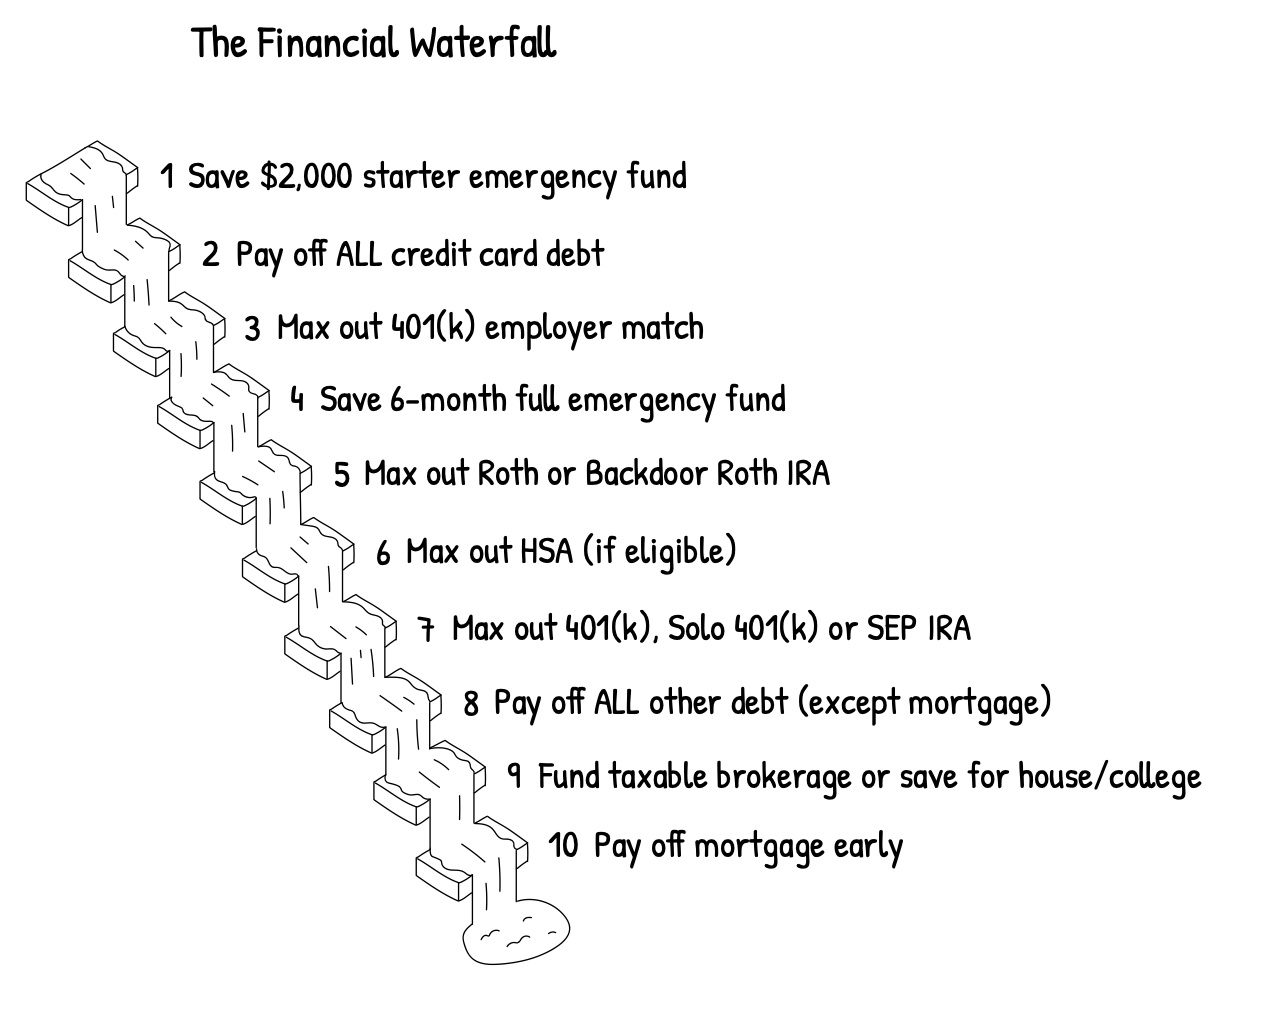
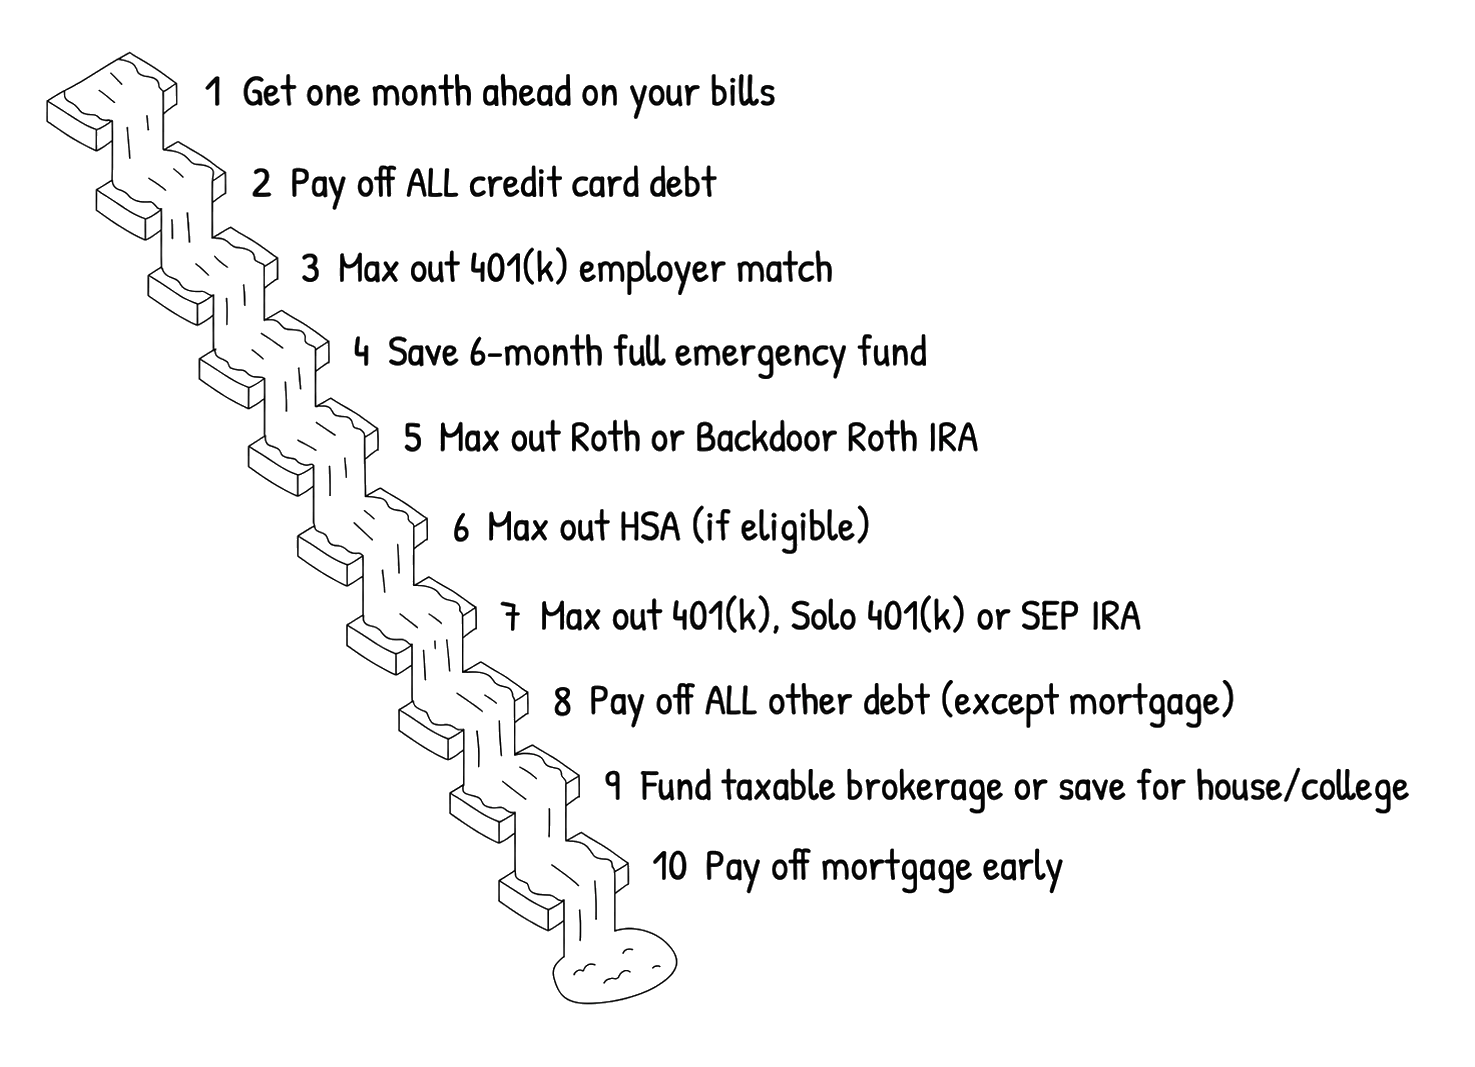
New Waterfall graphic, seamless, tap targets re-measured
Claude-Session: https://claude.ai/code/session_015yEfJTAEgxMHdJavpt4FRa

Changed region(s): [[0.0308, 0.0304, 0.955, 0.9422]]

diff --git a/config.js b/config.js
@@ -34,16 +34,16 @@ window.PLANNER_CONFIG = {
   // Where each step's text sits on waterfall.png, as % of the image (left, top, width,
   // height), so the steps can be tapped right on the graphic. Re-measure if the graphic changes.
   waterfallSpots: [
-    [11.5, 14.2, 45.6, 7.0],
-    [14.7, 21.8, 36.3, 6.9],
-    [18.2, 28.7, 40.9, 7.3],
-    [21.7, 36.1, 41.8, 7.0],
-    [24.9, 43.3, 45.3, 6.8],
-    [28.4, 50.7, 33.3, 7.3],
-    [32.0, 58.2, 48.4, 6.4],
-    [35.5, 65.5, 50.5, 7.3],
-    [38.7, 72.9, 60.3, 7.1],
-    [42.1, 79.8, 33.1, 7.0],
+    [12.8, 5.8, 40.8, 5.2],
+    [16.2, 14.4, 33.6, 5.2],
+    [19.6, 22.4, 38.0, 5.2],
+    [23.0, 30.2, 40.9, 6.5],
+    [26.4, 38.2, 41.1, 5.2],
+    [29.8, 46.3, 30.2, 6.7],
+    [33.2, 54.6, 45.3, 5.9],
+    [36.5, 62.6, 48.2, 6.7],
+    [39.9, 70.9, 56.7, 6.5],
+    [43.3, 78.4, 29.9, 6.5],
   ],
   goalPrompt: "Which step of the Financial Waterfall are you on? Tap it. That's the goal this money goes to.",
   // Printed in the plan's Financial Goals row when no step is picked.

diff --git a/app.js b/app.js
@@ -430,7 +430,7 @@
   function waterfallHtml() {
     const steps = C.waterfall || [], spots = C.waterfallSpots || [];
     return `<div class="waterfall">
-        <img src="waterfall.png" alt="The Financial Waterfall: ten steps from getting one month ahead on your bills to paying off the mortgage early" width="1266" height="1020">
+        <img src="waterfall.png" alt="The Financial Waterfall: ten steps from getting one month ahead on your bills to paying off the mortgage early" width="1475" height="1067">
         ${steps.map((g, i) => { const sp = spots[i] || [0, 0, 0, 0]; return `<button type="button" class="wf-hit${state.goalName === g ? " on" : ""}" data-goal="${esc(g)}" style="left:${sp[0]}%;top:${sp[1]}%;width:${sp[2]}%;height:${sp[3]}%" aria-label="${esc(g)}" title="${esc(g)}"></button>`; }).join("")}
       </div>`;
   }

diff --git a/styles.css b/styles.css
@@ -399,7 +399,7 @@ details.more > div { margin-top: 10px; }
 .verdict b { font-family: var(--display); }
 .goalrow { display: grid; gap: 14px; }
 .waterfall { position: relative; width: min(100%, 760px); margin: 0 auto; }
-.waterfall img { display: block; width: 100%; height: auto; border: 1.5px solid var(--border); border-radius: 14px; background: var(--card); }
+.waterfall img { display: block; width: 100%; height: auto; }
 .wf-hit { position: absolute; border: 2px solid transparent; border-radius: 10px; background: transparent; cursor: pointer; padding: 0; transition: background 120ms ease, border-color 120ms ease; }
 .wf-hit:hover { background: rgba(30, 58, 184, 0.10); border-color: rgba(30, 58, 184, 0.35); }
 .wf-hit.on { background: rgba(255, 122, 92, 0.28); border-color: var(--coral); }

diff --git a/index.html b/index.html
@@ -8,7 +8,7 @@
 <link rel="preconnect" href="https://fonts.googleapis.com">
 <link rel="preconnect" href="https://fonts.gstatic.com" crossorigin>
 <link rel="stylesheet" href="https://fonts.googleapis.com/css2?family=Poppins:wght@600;700&family=Lato:wght@400;700&display=swap">
-<link rel="stylesheet" href="styles.css?v=6">
+<link rel="stylesheet" href="styles.css?v=7">
 </head>
 <body>
 
@@ -74,8 +74,8 @@
 </div>
 
 <script src="https://cdnjs.cloudflare.com/ajax/libs/html2canvas/1.4.1/html2canvas.min.js"></script>
-<script src="config.js?v=6"></script>
-<script src="plan.js?v=6"></script>
-<script src="app.js?v=6"></script>
+<script src="config.js?v=7"></script>
+<script src="plan.js?v=7"></script>
+<script src="app.js?v=7"></script>
 </body>
 </html>
